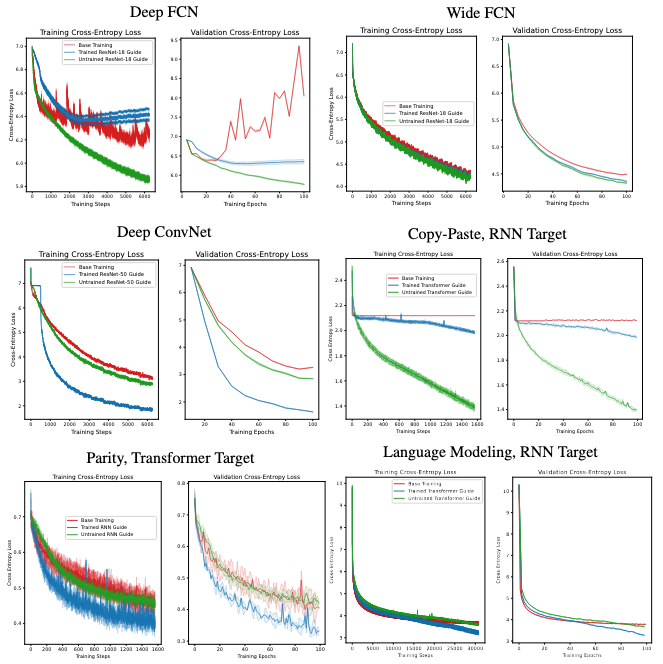
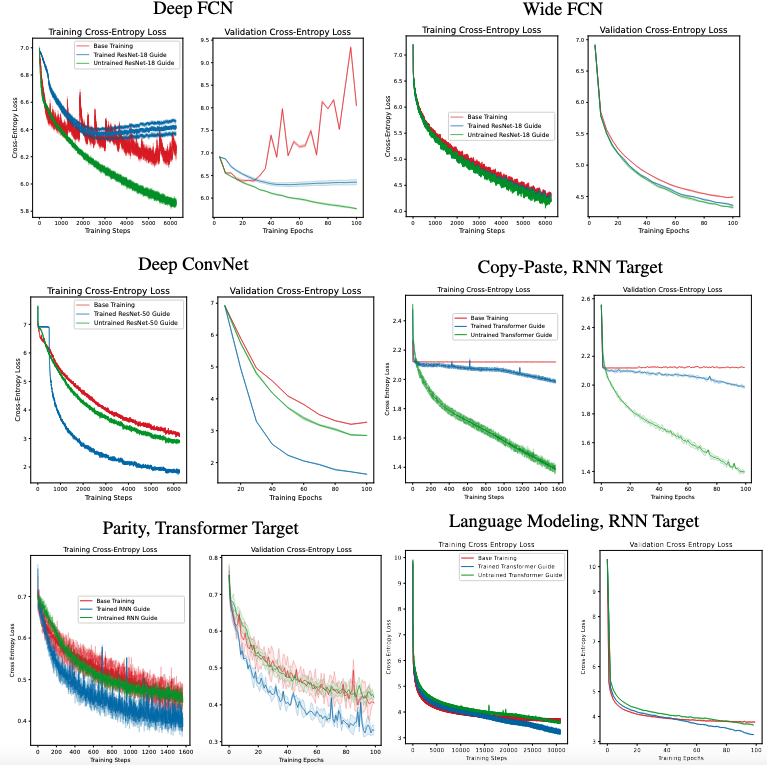
Fixed website

Changed region(s): [[0.0, 0.0, 0.9955, 1.0]]

diff --git a/index.html b/index.html
@@ -442,6 +442,12 @@ pre {
                     Code
                 </a>
             </div>
+            <div class="paper-btn-coming-soon">
+                <a class="paper-btn" href="https://colab.research.google.com/drive/1jxDeRZzhh5vozcbk_WNg86k11R1ja_3Q?usp=sharing">
+                    <span class="material-icons"> code </span>
+                    Guide
+                </a>
+            </div>
         </div></div>
     </div>
 
@@ -459,7 +465,15 @@ pre {
     </section>
      -->
 
+    <section id="teaser-image">
+        <h2><b>Guidance</b>: Training via representational alignment</h2>
+        <center>
+            <figure>
+                <img src="img/overview_figure.png", style="width:950px">
+            </figure>
 
+        </center>
+    </section>
     <br>
     <section id="abstract"/>
         <hr>
@@ -472,10 +486,7 @@ pre {
     </section>
     <section id="method"/>
         <hr>
-        <h2>Method</h2>
-            <figure>
-                <img src="img/overview_figure.png", style="width:950px">
-            </figure>
+        <h2>What is <i>guidance</i>?</h2>
             <div class="flex-row">
                 <p>
                 We propose <i>Guidance</i> between two networks to make untrainable networks trainable. Given a target which cannot be trained effectively on a task, e.g., a fully connected network (FCN) which immediately overfits on vision tasks, we guide it with another network.
@@ -483,7 +494,7 @@ pre {
             </div>
             <div class="flex-row">
                 <p>
-                    <b>Layer-wise representational alignment</b> In addition to the target's cross-entropy loss, we encourage the network to minimize the representational similarity between target and guide activations layer by layer.
+                    <b>Layer-wise representational alignment</b> In addition to the target's cross-entropy loss, we encourage the network to minimize the representational similarity between target and guide activations layer by layer. We measure the similarity using <i>centered kernel alignment.</i>
                 </p>
             </div>
             <div class="flex-row">
@@ -500,28 +511,32 @@ pre {
 
     <section id="results_overview"/>
     <hr>
-    <h2>Results Overview</h2>
+    <h2>Results: Guidance makes untrainable networks trainable!</h2>
+    <h3><b>Guidance improves performance for image classification across fully connected networks and deep convolutional networks without residual connections, <span style="color: red;">particularly with randomly initialized guide networks</span>.</b> </h3>
         <br><br>
         <div class="mx-auto">
             <center><img class="card-img-top" src="img/image_net.png" style="width:950px"></center>
         </div>
-        <p><b>Guidance improves performance for image classification. </b> We apply guidance on three untrainable networks: (1) a Deep FCN guided by a ResNet-18, (2) a Wide FCN guided by a ResNet-18, and (3) a Deep Convolutional Network guided by ResNet-50. Across all settings, guidance can help
+        <p>We apply guidance on three untrainable networks: (1) a Deep FCN guided by a ResNet-18, (2) a Wide FCN guided by a ResNet-18, and (3) a Deep Convolutional Network guided by ResNet-50. Across all settings, guidance can help
             train architectures that were otherwise considered unsuitable.</p>
+    
+    <h3><b>Guidance improves performance for sequence modeling across 3 tasks that untrainable for both transformers and RNNs.</b> </h3>
 
         <div class="mx-auto">
             <center><img class="card-img-top" src="img/seq_model.png" style="width:950px"></center>
         </div>
-        <p><b>Guidance improves performance for sequence modeling. </b> We apply guidance on across two sequence-based architectures for three sequence modeling tasks: (1) copy-paste with RNN guided by a Transformer, (2) parity with a Transformer guided by an RNN, and (3) language modeling with an RNN guided by a Transformer. RNN performance improves dramatically
-            when aligning with the representations of a Transformer for copy and paste, as well as for language modeling. RNNs close most of the gap to Transformers for language modeling. Transformers in turn, improve parity performance when aligning with an RNN. Guidance is able to transfer priors between networks. </p>
+        <p>We apply guidance on across two sequence-based architectures for three sequence modeling tasks: (1) copy-paste with RNN guided by a Transformer, (2) parity with a Transformer guided by an RNN, and (3) language modeling with an RNN guided by a Transformer. RNN performance improves dramatically
+            when aligning with the representations of a Transformer for copy and paste, as well as for language modeling. <span style="color: red;">RNNs close most of the gap to Transformers for language modeling</span>. Transformers in turn, improve parity performance when aligning with an RNN. Guidance is able to transfer priors between networks. </p>
+    <h3><b>Guidance improves training by preventing overfitting and drives training and validation loss lower than using base training.</b> </h3>
 
         <div class="mx-auto">
-            <center><img class="card-img-top" src="img/training_curves.png" style="width:950px"></center>
+            <center><img class="card-img-top" src="img/training_curve_3.png" style="width:950px"></center>
         </div>
-        <p><b>Training and Validation Curves</b></p>
+        <p><b>Training and Validation Curves</b> We find across all settings that guidance improves training and validation loss. Guidance prevents overfitting and settings where loss saturates.</p>
     </section>
 
     <div class="section">
-        <h2>Error Consistency</h2>
+        <h2>Error Consistency: Functional Properties of Guided Networks</h2>
         <hr>
         <p>
             Given our guided networks, we can analyze the functional properties of the guided network to confirm whether networks adopt priors from their guide networks. Using Deep FCN as our target model, we guide it with a ResNet-18 or a ViT-B-16. We then measure the error consistency between all of the networks.
@@ -551,7 +566,7 @@ pre {
                 </center>
             </a>
             <p class="caption">
-                <b>Disconnecting the guide early can have long-term effects.</b> he Deep FCN
+                <b>Disconnecting the guide early can have long-term effects.</b> The Deep FCN
                 still does not diverge and the training and validation loss still mirror one another. Very likely, an initialization
                 regime exists for Deep FCNs that prevents overfitting. We now have the tools to investigate this question.<br>
         </figure>
